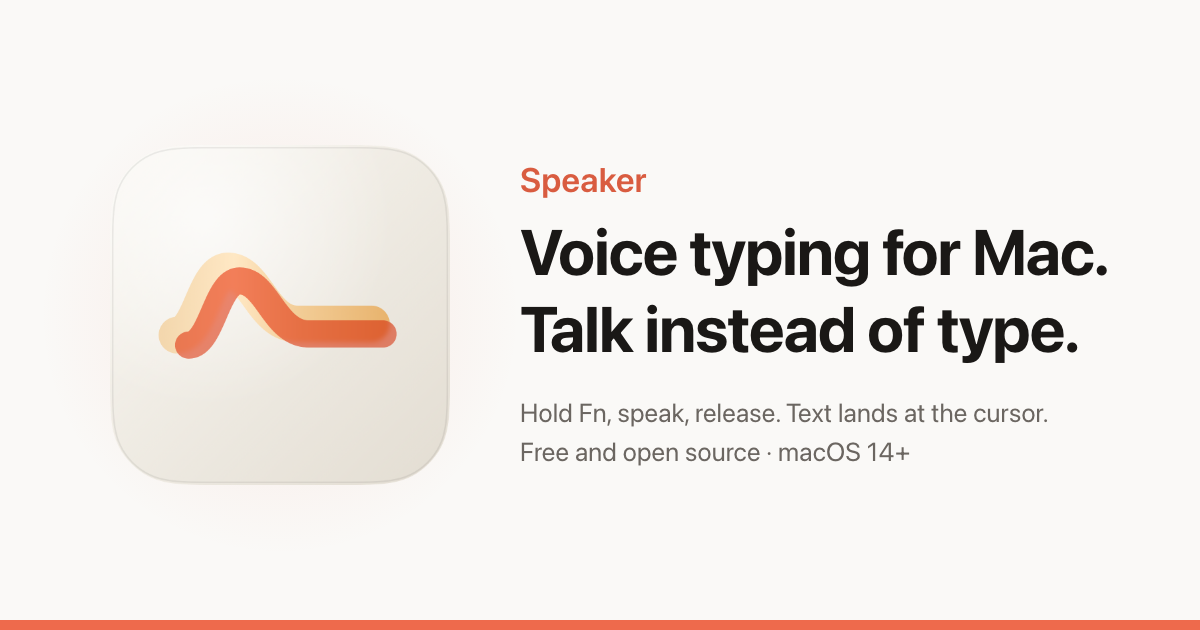
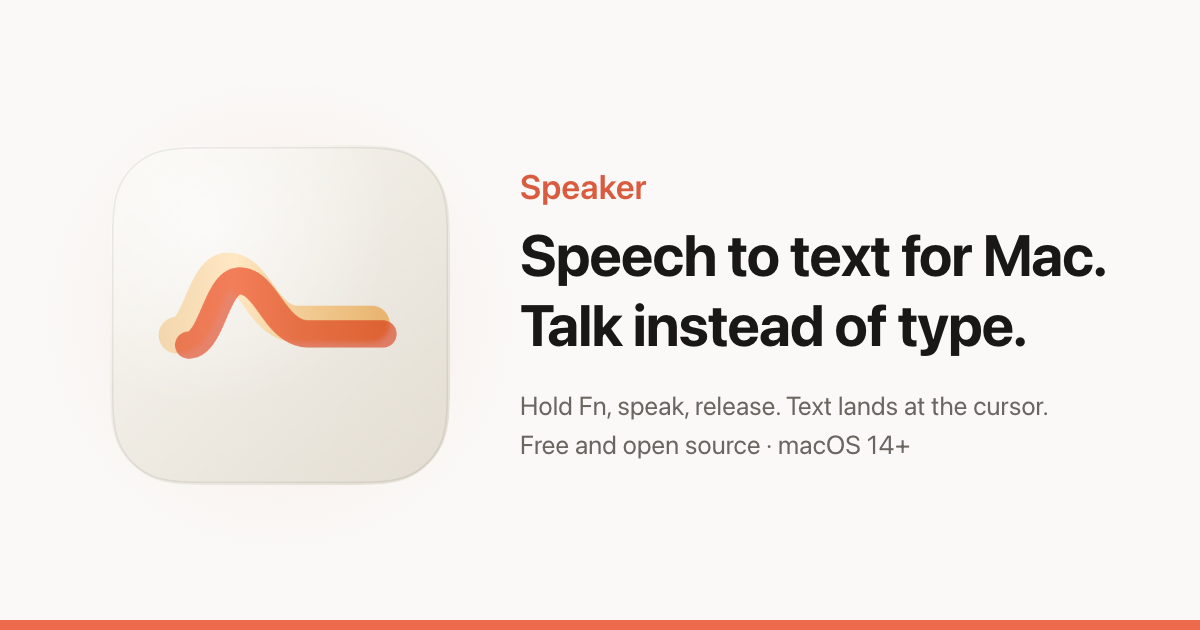
官网改为对标语音转文字 App，标题与关键词换成语音转文字相关词
- 对比表：中英文都改为 Speaker 与其他语音转文字 App 比较，去掉 macOS 听写和输入法两列；与输入法的区别仍在常见问题里
- 中文：标题、description、keywords、首屏标题改用“语音转文字 App”；常见问题“和 macOS 听写有什么不同”换成“和其他语音转文字 App 有什么不同”
- 英文：标题改为 Speech-to-Text App for Mac，加 keywords，首屏标题改为 Speech to text for Mac；常见问题同步替换
- 分享图同步新标题，中文副标题改为“免费开源 · 无需账号”

diff --git a/site/src/routes/index.tsx b/site/src/routes/index.tsx
@@ -4,18 +4,18 @@ import { DOWNLOAD_URL, type HomeCopy, HomePage, homeHead } from '../home'
 
 const copy: HomeCopy = {
   lang: 'zh-CN',
-  title: 'Speaker：免费开源的 Mac 语音输入工具，说话转文字',
+  title: 'Speaker：Mac 语音转文字 App，免费开源的语音输入工具',
   description:
-    'Speaker 是免费开源的 Mac 语音输入工具：在任意输入框按住 Fn 说话，松开后文字出现在光标处。语音识别可选豆包、OpenAI、阿里千问，macOS 26 上还能用不需要 Key 的 Apple 本机识别。没有账号，没有服务端，适用于 macOS 14 及以上。',
+    'Speaker 是免费开源的 Mac 语音转文字 App：在任意输入框按住 Fn 说话，松开后文字直接出现在光标处。语音识别可选豆包、OpenAI、阿里千问，macOS 26 上还能用不需要 Key 的 Apple 本机识别。没有账号，不用订阅，适用于 macOS 14 及以上。',
   keywords:
-    'Mac 语音输入,Mac 语音转文字,语音输入法,语音打字,听写,豆包语音识别,OpenAI 语音识别,千问语音识别,Apple 本机语音识别,开源',
+    '语音转文字,语音转文字 App,语音转文字软件,Mac 语音转文字,Mac 语音输入,语音输入软件,AI 语音输入,语音打字,语音识别软件,豆包语音识别,开源',
   ogImage: `${SITE_URL}og.png`,
-  ogImageAlt: 'Speaker：Mac 语音输入，说话代替打字',
+  ogImageAlt: 'Speaker：Mac 语音转文字，说话代替打字',
   priceCurrency: 'CNY',
   requirements: 'macOS 14 或更高版本，Apple 芯片或 Intel 芯片；Apple 语音识别需要 macOS 26',
   iconAlt: 'Speaker 应用图标',
   otherLanguage: { lang: 'en', label: 'English' },
-  headline: 'Mac 语音输入，说话代替打字',
+  headline: 'Mac 语音转文字，说话代替打字',
   lede: (
     <>
       在任意输入框按住 <kbd>Fn</kbd> 说话，松开后文字出现在光标处。用你自己的 API Key 或 Apple 本机识别，没有账号，没有服务端。
@@ -26,7 +26,7 @@ const copy: HomeCopy = {
   sections: [
     {
       id: 'voice-to-text',
-      title: '语音转文字',
+      title: '在任意 App 里语音输入',
       body: (
         <>
           <p>
@@ -100,26 +100,22 @@ const copy: HomeCopy = {
     },
   ],
   compare: {
-    title: '和其他语音输入方式比较',
+    title: '和其他语音转文字 App 比较',
     aspectLabel: '方面',
-    columns: ['Speaker', '输入法自带的语音输入', 'macOS 听写'],
+    columns: ['Speaker', '其他语音转文字 App'],
     rows: [
-      ['怎么用', '任意输入框按快捷键，不换输入法', '先切换到这个输入法', '按系统听写快捷键'],
-      [
-        '语音交给谁',
-        '你选的服务商：豆包、OpenAI 或千问；也可以用 Apple 本机识别',
-        '输入法厂商',
-        'Apple',
-      ],
+      ['怎么用', '任意输入框按快捷键，文字直接出现在光标处', '多数在 App 里录音或导入音频，转写后再复制'],
+      ['语音交给谁', '你选的服务商：豆包、OpenAI 或千问；也可以用 Apple 本机识别', '通常是 App 厂商的服务器'],
       [
         '费用',
         '软件免费；云端识别按用量付给服务商，豆包约 1 元/小时；Apple 本机识别免费',
-        '免费',
-        '免费',
+        '通常有免费额度，超出后按月或按年付费',
       ],
-      ['整理文字', '可选服务商，可写自己的指令', '取决于产品', '不支持'],
-      ['准备工作', '申请 API Key，或下载 Apple 语音识别的语言模型', '安装输入法', '系统自带'],
-      ['开源', 'MIT', '否', '否'],
+      ['账号', '不需要', '通常需要注册登录'],
+      ['识别模型', '自己选', '厂商决定'],
+      ['整理文字', '可选服务商，可写自己的指令', '取决于产品'],
+      ['准备工作', '申请 API Key，或下载 Apple 语音识别的语言模型', '注册账号'],
+      ['开源', 'MIT', '多数不开源'],
     ],
   },
   faqTitle: '常见问题',
@@ -150,9 +146,9 @@ const copy: HomeCopy = {
         '豆包默认使用中英文模型，中英混说可以直接识别；OpenAI 和千问支持多种语言；Apple 语音识别使用系统首选语言里第一个支持的语言。App 界面目前只有简体中文。',
     },
     {
-      question: '和 macOS 自带的听写有什么不同？',
+      question: '和其他语音转文字 App 有什么不同？',
       answer:
-        'macOS 听写只能用 Apple 的识别。Speaker 可以选豆包、OpenAI、千问或 Apple 本机识别，另外有个人词库、文字整理和本机历史记录。',
+        '常见的语音转文字 App 通常要注册账号、开会员，音频发到厂商的服务器，转写完再复制出来。Speaker 免费开源，没有账号；识别服务自己选，按用量直接付给服务商，或者用 Apple 本机识别；文字直接出现在光标处，不用复制粘贴。',
     },
     {
       question: '按 Fn 时弹出表情或切换了输入法怎么办？',

diff --git a/site/src/routes/en.tsx b/site/src/routes/en.tsx
@@ -4,18 +4,20 @@ import { DOWNLOAD_URL, type HomeCopy, HomePage, homeHead } from '../home'
 
 const copy: HomeCopy = {
   lang: 'en',
-  title: 'Speaker: Free, Open-Source Voice Typing and Dictation for Mac',
+  title: 'Speaker: Free, Open-Source Speech-to-Text App for Mac',
   description:
-    'Speaker is a free, open-source dictation app for Mac. Hold Fn in any text field, speak, and release to type at the cursor. Bring your own OpenAI, Qwen, or Doubao API key, or use Apple on-device speech recognition on macOS 26. No account, no server. macOS 14 or later.',
+    'Speaker is a free, open-source speech-to-text app for Mac. Hold Fn in any text field, speak, and release: your words are typed at the cursor. Bring your own OpenAI, Qwen, or Doubao API key, or use Apple on-device speech recognition on macOS 26. No account, no subscription. macOS 14 or later.',
+  keywords:
+    'speech to text, speech to text app, speech to text Mac, voice to text app, voice typing, dictation app for Mac, AI dictation, open source',
   ogImage: `${SITE_URL}og-en.png`,
-  ogImageAlt: 'Speaker: voice typing for Mac. Talk instead of type.',
+  ogImageAlt: 'Speaker: speech to text for Mac. Talk instead of type.',
   priceCurrency: 'USD',
   requirements: 'macOS 14 or later on Apple silicon or Intel; Apple speech recognition requires macOS 26',
   iconAlt: 'Speaker app icon',
   otherLanguage: { lang: 'zh-CN', label: '简体中文' },
   headline: (
     <>
-      Voice typing for Mac.
+      Speech to text for Mac.
       <br />
       Talk instead of type.
     </>
@@ -31,7 +33,7 @@ const copy: HomeCopy = {
   sections: [
     {
       id: 'voice-to-text',
-      title: 'Speech to text in any app',
+      title: 'Voice typing in any app',
       body: (
         <>
           <p>
@@ -123,16 +125,25 @@ const copy: HomeCopy = {
     },
   ],
   compare: {
-    title: 'Speaker vs. macOS Dictation',
+    title: 'Speaker vs. other speech-to-text apps',
     aspectLabel: 'Aspect',
-    columns: ['Speaker', 'macOS Dictation'],
+    columns: ['Speaker', 'Other speech-to-text apps'],
     rows: [
-      ['How to start', 'Shortcut in any text field', 'System dictation shortcut'],
-      ['Who hears your voice', 'The provider you pick, or Apple on-device', 'Apple'],
-      ['Cost', 'App is free; cloud recognition is billed by your provider; Apple on-device is free', 'Free'],
-      ['Text cleanup', 'Your choice of provider and instructions', 'Not available'],
-      ['Dictionary and history', 'Yes, stored on your Mac', 'No'],
-      ['Open source', 'MIT', 'No'],
+      [
+        'How it works',
+        'Shortcut in any text field; text appears at the cursor',
+        'Varies: some type at the cursor, others transcribe recordings you copy from',
+      ],
+      ['Who hears your voice', 'The provider you pick, or Apple on-device', "Usually the vendor's servers"],
+      [
+        'Cost',
+        'App is free; cloud recognition is billed by your provider per use; Apple on-device is free',
+        'Usually a monthly or yearly subscription beyond a free tier',
+      ],
+      ['Account', 'None', 'Usually required'],
+      ['Recognition model', 'You choose', 'Chosen by the vendor'],
+      ['Text cleanup', 'Your choice of provider and instructions', 'Varies by app'],
+      ['Open source', 'MIT', 'Mostly closed source'],
     ],
   },
   faqTitle: 'FAQ',
@@ -153,9 +164,9 @@ const copy: HomeCopy = {
         'The interface is currently in Simplified Chinese only. Recognition is not limited to Chinese: OpenAI and Qwen support many languages, Doubao handles Chinese and English, and Apple speech recognition uses the first supported language in your system preferences.',
     },
     {
-      question: 'How is it different from macOS Dictation?',
+      question: 'How is it different from other speech-to-text apps?',
       answer:
-        'macOS Dictation always uses Apple recognition. Speaker lets you pick OpenAI, Qwen, Doubao, or Apple on-device recognition, and adds a personal dictionary, text refinement, and local history.',
+        "Most speech-to-text apps need an account and a subscription, and send your audio to the vendor's servers. Speaker is free and open source with no account. You pick the recognition service and pay it directly per use, or use Apple on-device recognition for free. Text goes straight to the cursor in any app.",
     },
     {
       question: 'Pressing Fn opens the emoji picker or switches input source. What do I do?',

diff --git a/site/og/og-en.html b/site/og/og-en.html
@@ -77,7 +77,7 @@
 
       h1 {
         margin: 0 0 26px;
-        font-size: 64px;
+        font-size: 58px;
         line-height: 1.2;
         font-weight: 700;
         letter-spacing: -1px;
@@ -95,7 +95,7 @@
     <div class="icon"><img src="../../Resources/AppIcon.png" alt="" /></div>
     <div>
       <p class="name">Speaker</p>
-      <h1>Voice typing for Mac.<br />Talk instead of type.</h1>
+      <h1>Speech to text for Mac.<br />Talk instead of type.</h1>
       <p class="lines">Hold Fn, speak, release. Text lands at the cursor.<br />Free and open source · macOS 14+</p>
     </div>
   </body>

diff --git a/site/og/og.html b/site/og/og.html
@@ -95,8 +95,8 @@
     <div class="icon"><img src="../../Resources/AppIcon.png" alt="" /></div>
     <div>
       <p class="name">Speaker</p>
-      <h1>Mac 语音输入<br />说话代替打字</h1>
-      <p class="lines">按住 Fn 说话，松开后文字出现在光标处<br />自带 API Key · 免费开源 · macOS 14+</p>
+      <h1>Mac 语音转文字<br />说话代替打字</h1>
+      <p class="lines">按住 Fn 说话，松开后文字出现在光标处<br />免费开源 · 无需账号 · macOS 14+</p>
     </div>
   </body>
 </html>
